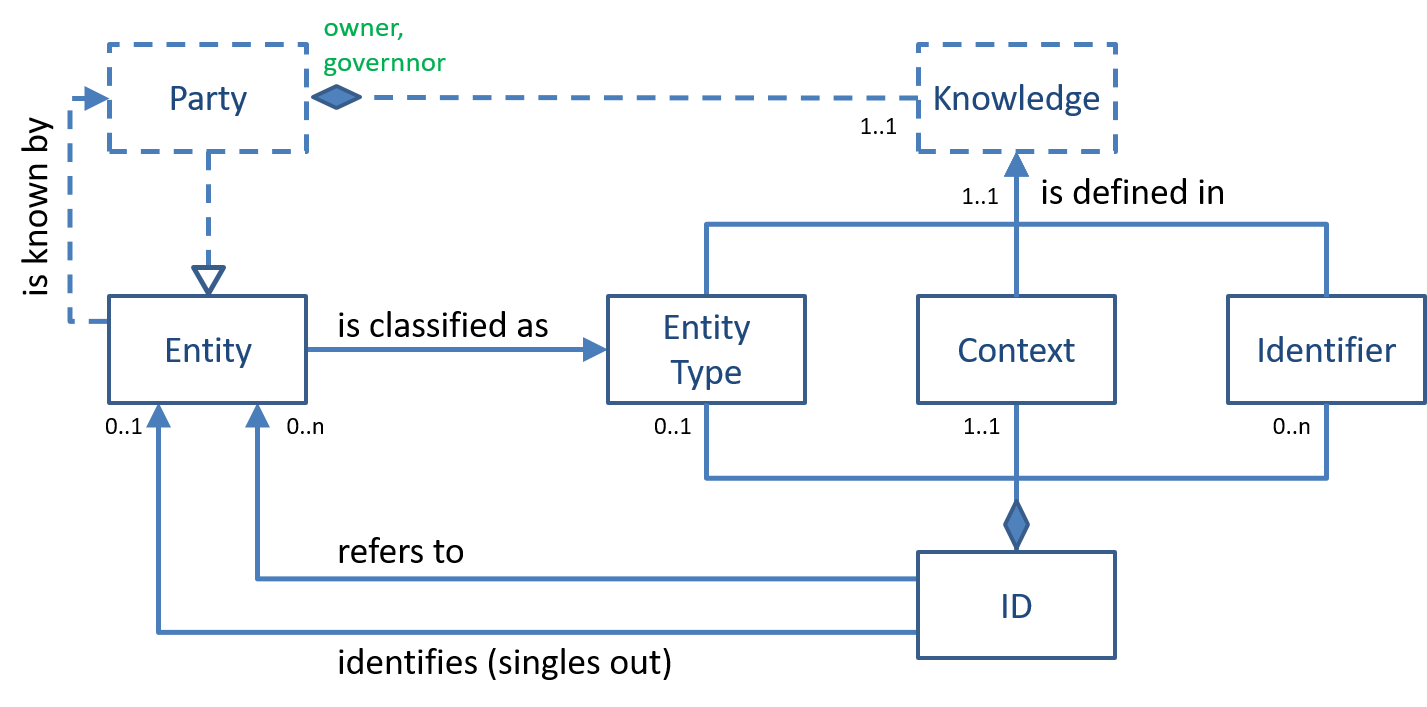
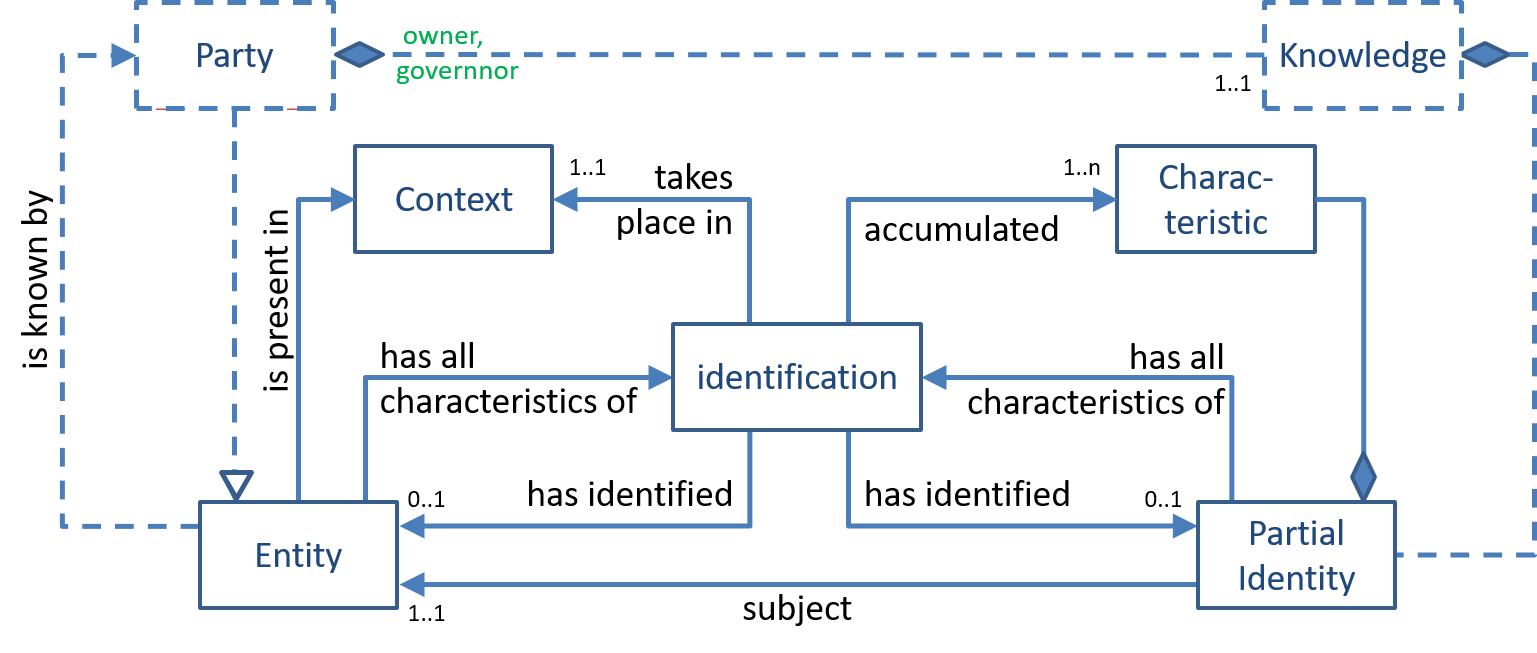
wip on identities, identification, identifiers

diff --git a/sidebars.js b/sidebars.js
@@ -43,6 +43,7 @@ module.exports = {
             items:
             [ { type: 'doc', id: 'terms/pattern-terminology' },
               { type: 'doc', id: 'terms/pattern-identification' },
+              { type: 'doc', id: 'terms/pattern-identifier' },
               { type: 'doc', id: 'terms/pattern-decision-making' },
               { type: 'doc', id: 'terms/pattern-decentralized-GRC' },
               { type: 'doc', id: 'terms/pattern-mandates-delegation-hiring' },

diff --git a/docs/terms/pattern-identification.md b/docs/terms/pattern-identification.md
@@ -12,11 +12,13 @@ date: 20210803
 import useBaseUrl from '@docusaurus/useBaseUrl'
 
 :::info Editor's note
-This is work that is being envisaged.
+This is work in progress and needs discussion.
 :::
 
 ### Purpose
 The **Identification pattern** captures the concepts and relations that help to explain the mechanisms that a %%party|party%% uses to %%identify|identify%% %%entities|entity%%, and mechanisms for communicating with another party such that both parties can identify an entity and know whether or not they identify the same entity.
+
+Related topics can be found in the %%identity pattern|pattern-identity%% and the %%identifier pattern|pattern-identifier%%.
 
 ### Introduction
 In 'the wild', terms such as [identify](https://www.merriam-webster.com/dictionary/identify), [identification](https://www.merriam-webster.com/dictionary/identification), [identity](https://www.merriam-webster.com/dictionary/identity) are defined such that the can be used without all too many problems in everyday discussions. However, if we want to use these terms for our [purposes](../essifLab-objectives), their definition must be much more precise, particularly because we want to use them in IT-contexts. Lets show this by example.
@@ -31,11 +33,11 @@ We will elaborate on both.
 
 #### 1. Identification: selecting a %%partial identity|partial-identity%%
 
-Suppose you are at home and someone rings at the frontdoor. When you open the door you visually examine the person in front of you, the person may say things (and you may ask things), the purpose of all this being that you 'establish the identity of' ([Merriam-Webster, identify, 1a](https://www.merriam-webster.com/dictionary/identify)), where 'identity' would be 'the distinguishing character or personality of an individual' ([Merriam-Webster, identity, 1a](https://www.merriam-webster.com/dictionary/identity)).
+Suppose you are at home and the doorbell rings. When you open the door you see a person of which you will gather further characteristics (properties), e.g. by observing their looks, by characterizing that person's voice (pitch, intonation), and interpreting what the person says, etc. You may even elicit further observations, e.g. by asking things. All of this serves the purpose of 'establishing the identity of' ([Merriam-Webster, identify, 1a](https://www.merriam-webster.com/dictionary/identify)) that person, where 'identity' would be 'the distinguishing character(istics) or personality of an individual' ([Merriam-Webster, identity, 1a](https://www.merriam-webster.com/dictionary/identity)).
 
-In practice, however, this is more about recognizing the person, i.e. tapping into your own %%knowledge|knowledge%% to see what you already know about this person, which - in terms of our %%identity pattern|identity%% would be: determining which of the %%partial identities|partial-identity%% you %%own|owner%% have the person at the door as its %%subject|subject%%. The purpose of all this is that as you remember what you know about the person, that helps you to decide whether or not, and if so, how to further engage with him/her.
+You could also phrase this as recognizing the person, i.e. tapping into your own %%knowledge|knowledge%% to see what you already know about this person, which - in terms of our %%identity pattern|identity%% would be: determining which of the %%partial identities|partial-identity%% you %%own|owner%% have the person at the door as its %%subject|subject%%. The purpose of all this is that as you remember what you know about the person, that helps you to decide whether or not, and if so, how to further engage with him/her. This would mean that you gather characteristics of that person (the fact that it actually is a person being the first of such characteristics), and continue to do so until there is only one %%partial identity|partial-identity%% that has all these characteristics.
 
-Continuing the example, it could be that you have no recollection of that person, in which case you would already have started to create a new %%partial identity|partial-identity%% for which that person is the %%subject|subject%%, and you would have started to attribute characteristics (with some level of certainty) to this person, which all are part of this new %%partial identity|partial-identity%%. Doing this enables you to identify/recognize this person the next time (s)he comes to your house.
+Continuing the example, it could be that you have no recollection of that person, i.e. there is no %%partial identity|partial-identity%% in your %%knowledge|knowledge%% that has all these characteristics. In this case you would already have started to create a new %%partial identity|partial-identity%% for which that person is the %%subject|subject%%, and you would have started to attribute characteristics (with some level of certainty) to this person, which all are part of this new %%partial identity|partial-identity%%. Doing this enables you to identify/recognize this person the next time (s)he comes to your house.
 
 The identification process is said to fail if a user record or %%partial identity|partial-identity%% has been selected, but its actual %%subject|subject%% is not the %%entity|entity%% that supposedly is identified. This is the case when someone/something (succesfully) masquerades as, or impersonates that %%entity|entity%%. The process of obtaining assurances that the %%entity|entity%% that is identified is "who (s)he says that (s)he is" is commonly called 'authentication'. We would say that authentication is the process of providing a set of assurances such that the risk of having selected a %%partial identity|partial-identity%% or user record whose %%subject|subject%% is not the %%entity|entity%% that was identified, is acceptable to the %%owner|owner%% of that %%partial identity|partial-identity%% or user record.
 
@@ -55,35 +57,40 @@ In many contexts, this assumption does not hold. Examples include IT-contexts, o
 
 In any such cases, an %%agent|agent%% that performs identification, must have access to the relevant subset of its %%principal's|principal%% %%knowledge|knowledge%%, that is: to a representation thereof that it is able to interpret as intended by its %%principal|principal%%.
 
-Such representations can come in many forms. In a human administrative context, such representations can be stored in e.g. customer and/or supplier relation management systems, employee registrations, etc., which may be paper-based (in a file cabinet), or electronic (in a database). Typically for IT-contexts, this would also include user registrations, that hold accounts for the users. The subset of %%attributes|attribute%% that one can find a such a registration should have been chosen such that the various records therein are fit for purpose, which means that any %action% that an %agent% of the %owner% of that %data% must execute, can find the %data% it needs for that task in one of its registrations.
+Such representations can come in many forms. In a human administrative context, such representations can be stored in e.g. customer and/or supplier relation management systems, employee registrations, etc., which may be paper-based (in a file cabinet), or electronic (in a database). Typically for IT-contexts, this would also include user registrations, that hold accounts for the users. The subset of %%attributes|attribute%% that one can find a such a registration should have been chosen such that the various records therein are fit for purpose, which means that any %%action|action%% that an %%agent|agent%% of the %%owner|owner%% of that %%data|data%% must execute, can find the %%data|data%% it needs for that task in one of its registrations.
 
-This is particularly true for the %action% that is commonly referred to as 'logging in'. The %actor% that is 'logging in' some user onto a system (or provide the user access to some other physical or electronic location), will identity (and subsequently authenticate) the user, i.e. search for the account to associate the user with, from where it can find all other data that is needed about the user in that particular context.
+This is particularly true for the %%action|action%% that is commonly referred to as 'logging in'. The %%actor|actor%% that is 'logging in' some user onto a system (or provide the user access to some other physical or electronic location), will identity (and subsequently authenticate) the user, i.e. search for the account to associate the user with, from where it can find all other data that is needed about the user in that particular context.
 
-### Formalized model
+### Formalized model - information realm
 Here is a visual representation of this pattern, using the following [notations and conventions](../notations-and-conventions#pattern-diagram-notations):
 
 <img
-  alt="Conceptual model of the 'Identification' pattern"
+  alt="Conceptual model of the 'Identification' pattern - information realm"
   src={useBaseUrl('images/patterns/pattern-identification.png')}
 />
 
-The figure shows that a %party% can know (about the existence of) any number of %entities%, one of which is that %party% itself. As explained in the %party-actor-action pattern%, the this %party% has (and %owns% and %governs%) its %knowledge, and as explained in the %identity pattern%, %partial identities% are a part of that %knowledge%.
+The figure shows that a %%party|party%% can know (about the existence of) any number of %%entities|entity%%, one of which is that %%party|party%% itself. As explained in the %%party-actor-action pattern|pattern-party-actor-action%%, this %%party|party%% has (%%owns|owner%%, %%governs|governance%%) its own %%knowledge|knowledge%%. Also, as explained in the %%identity pattern|pattern-identity%%, %%partial identities|partial-identity%% are a part of that %%knowledge|knowledge%%.
 
-When a %party% knows (about the existence of) an %entity%, it is likely to have classified this %entity% as one or several types. For example, people may classify other people as their friends, enterprises may classify people as employees, customers or suppliers. Note that a person known to an enterprise may well be both an employee and a customer, illustrating that %entities% may be a member of multiple classes.
+As mentioned above, %%identification|identify%% is an %%act|action%%, by (an %%agent|agent%% of) a %%party|party%% that results in the establishment of a 1-1 relation between an %%entity|entity%% (that exists in the real world) and a %%partial identity|partial-identity%% (that exists in the %%knowledge|knowledge%% of that %%party|party%%). This %%act|action%% takes place in a specific context/situation, in which a set of %%entities|entity%% is present.
 
-In the %knowledge% of a %party%, %entities% are typically represented by one or more %identifiers%. In various systems of an enterprise, this can be an employee-number, or a customer-number. Also, %parties% may know 
+Then, this act accummulates a set of characteristics (the 'uses' relation in the figure) that it either
+- observes from the %%entity|entity%% to be identified, then finds all %%partial identities|partial-identity%% that have all of these characteristics, or
+- takes from the %%partial identity|partial-identity%% whose %%subject|subject%% needs to be identified, then finds all %%entities|entity%% that have all of these characteristics
 
+There are quite a few commonly used characteristics. One example are entity-types, i.e. classifications of %%entities|entity%% that %%parties|party%% use to make sense of the world. Examples of which include 'person', 'organization', 'animal', 'friend', etc. The %%partial identity|partial-identity%% that a %%party|party%% %%owns|owner%% about some %%entity|entity%% would include the entity-types that this %%party|party%% has attributed to that %%entity|entity%%. Another example are %%identifiers|identifier%%, i.e. texts or words that are used to refer to an %%entity|entity%% in specific contexts.
 
-### References
+This process of accumulation of characteristics (and selecting the %%entities|entity%% or %%partial identities|partial-identity%% that keep fitting all of these characteristics) continues until
+- there is no %%entity|entity%% or no %%partial identity|partial-identity%% that matches all accumlated characteristics, in which identification failed.
+- there is a single %%partial identity|partial-identity%% and a single %%entity|entity%% that both match all such characteristics, in which case identification is successful and the %%subject|subject%%-relation between the %%entity|entity%% and %%partial identity|partial-identity%% has been established.
 
-Earlier ideas for this can be found in "[Putting Identifiers in the Context of eHealth](https://link.springer.com/content/pdf/10.1007/978-0-387-79026-8_27.pdf)"
+### Formalized model - data realm
+Here is a visual representation of a similar pattern, using the following [notations and conventions](../notations-and-conventions#pattern-diagram-notations):
 
+<img
+  alt="Conceptual model of the 'Identification' pattern - data realm"
+  src={useBaseUrl('images/patterns/pattern-identification.png')}
+/>
 
-### Discussion - Scope of Identification
-[RFC 3986, Section 1.1.](https://tools.ietf.org/html/rfc3986#section-1.1) states _"an identifier embodies the information required to distinguish what is being identified from all other things within <u>its</u> **scope of identification"**_. This statement suggests that identifiers (URIs) have a single scope, supposedly specified by "_the URI schemes and naming authority (if any)_". However, there is no such requirement, and there is nothing in place to guarantee this (apart from IANA, many other (sometimes even very commonly used) URI schemes exist). [Pfitzmann and Hansen (2010)](https://dud.inf.tu-dresden.de/literatur/Anon_Terminology_v0.34.pdf) (section 13.2) use the term 'identifiability sets' rather than 'scope of identification', and describe how 'attackers' - but that could equally well have been regular users - each have, or construct their own scope, and use contextual information to do so.
-
-The criterion that makes a text string qualify as an identifier doesn't seem to cut it, as only _using_ a text for identification purposes doesn't make it have (what we will call) the 'identification property', i.e. the property that it _actually_ identifies something. It may only have that property in combination with an associated (single) scope of identification, which may depend on the context in which it is being used. [RFC 2986, page 6](https://tools.ietf.org/html/rfc3986#page-6) illustrates this using the identifier "http://lcoalhost/".
-
-The lack of (identifying) scopes of identification becomes an issue when a %%party|party%% (say Alice) sends the identifier (e.g. `my car`) to another %%party|party%% (say Bob), expecting that Bob will then be able to identify the same %%entity|entity%% that she identifies with it (presumably some specific car).
-
-If Bob had just met Alice for the first time, and hadn't seen her coming in a car, then Alice must acquaint Bob with the existence of the %%entity|entity%% that she refers to with `my car`, e.g. by pointing her finger to it, or describing the make, brand and license plate or some other characteristic that allows Bob to single out her car (in the context of their meeting one another). Then, Bob can 'register' the existence of that car in his %%knowledge|knowledge%% (optionally tagging it with an identifier of his own, e.g. `Alice's car`), and associate it with the attribute (party='Alice', identifier='`my car`'). It is important to have the "party='Alice'" part in there, because other parties, (e.g. Carol) may also use an identifier `my car`, which would and should then refer to another car. This shows that the scope of interpretation for an identifier has to do with the (%%knowledge|knowledge%% of) %%parties|party%% that use it, and that understanding the intended meaning requires a proper identification of that scope.
+:::info Editor's note
+This section needs a figure and an explanation of how identification works in the data realm, i.e. the realm where identification is performed by an %%actor|actor%% that is not the %%party|party%% on whose behalf the %%identification|identify%% is being made. This requires that the %%actor|actor%% can access %%data|data%%-records (%%owned|owned%% by its %%principal|principal%%) that represent (exerpts of) %%partial identities|partial-identity%% of the %%entities|entity%% to be %%identified|identify%%. Such %%data|data%%-records would contain %%attributes|attribute%% that represent the characteristics.
+:::

diff --git a/docs/terms/pattern-identifier.md b/docs/terms/pattern-identifier.md
@@ -1,0 +1,49 @@
+---
+id: pattern-identifier
+title: "Identifier Pattern"
+scopeid: essifLab
+type: pattern
+typeid: identifier
+stage: draft
+hoverText: "The eSSIF-Lab Identifier Pattern describes how Identifiers are defined and used for Identification purposes."
+date: 20210830
+---
+
+import useBaseUrl from '@docusaurus/useBaseUrl'
+
+:::info Editor's note
+This is work in progress and needs discussion.
+:::
+
+### Purpose
+The **Identifier pattern** captures the concepts and relations that help to explain how %%identifiers|identifier%% are defined and used for %%identification|identify%% purposes.
+
+Related topics can be found in the %%identity pattern|pattern-identity%% and the %%identification pattern|pattern-identification%%.
+
+### Introduction
+
+
+### Formalized model
+Here is a visual representation of this pattern, using the following [notations and conventions](../notations-and-conventions#pattern-diagram-notations):
+
+<img
+  alt="Conceptual model of the 'Identifier' pattern"
+  src={useBaseUrl('images/patterns/pattern-identifier.png')}
+/>
+
+The figure shows a context, in which an %%agent|agent%% of a %%party|party%% that perceives the context (and its contents) uses %%identifiers|identifier%% for the purpose of %%identifying|identify%% %%entities|entity%% within that context. Typical contexts are those in which a computer system/application acts as such an %%agent|agent%%, but any other situation where (an %%agent|agent%% of) a %%party|party%% is %%acting|action%% has its own particular context. The context is significant, because within that context, not every %%entity|entity%% that a %%party|party%% knows to exist will be (expected to be) present, or needed to be %%identified|identify%%.
+
+It is assumed that %%identifiers|identifier%% are associated with specific classes of %%entities|entity%%. Such associations may differ between contexts. For example, in the context of discussing war planes, the %%identifier|identifier%% `B52` refers to a class of bomber planes, whereas in the context of Schiphol Amsterdam airport, `B52` would refer to a (boarding) gate, and in the context of drinks, it would refer to a specific [cocktail](https://en.wikipedia.org/wiki/B-52_(cocktail)). Examples in the IT include %%identifiers|identifier%% in the syntax of e-mail addresses, which may be used as an email address, as a username for logging in, as a SIP address (for making calls over the Internet), etc.
+
+Typically, %%identifications|identify%% for which %%identifiers|identifier%% are used are limited to specific contexts where the %%actor|actor%% that executes the %%identification-act|identify%% knows the kind of %%entity|entity%% that needs to be %%identified|identify%%, and when using some %%identifier|identifier%%, it would expect it to be useable for instances of such a kind.
+
+The figure introduces the concept `ID`, the idea of which is that it is a composition of whatever it takes in terms of %%identifiers|identifier%% to be able to identify an %%entity|entity%% of a specific type in a specific context. In the simplest case (in a small context, without many %%entities|entity%% to choose from), a single %%identifier|identifier%% may suffice - specifying the entity type may not even be necessary. In other cases, a single identifier m ay not suffice, and multiple identifiers are necessary
+
+:::info Editor's note
+Text to be added from here on. Thoughts revolve around changing 'entity type' to 'attribute type' or such. That might result in a mapping (Entity, Attribute Type, Identifier) in the current figure to (subject, predicate, object) or pehaps better: (subject, key, value), i.e. (key, value) pairs for an implied subject. That could form the basis of doing identification in the data realm (which is currently still lacking)
+:::
+
+
+### References
+
+Earlier ideas for this can be found in "[Putting Identifiers in the Context of eHealth](https://link.springer.com/content/pdf/10.1007/978-0-387-79026-8_27.pdf)"

diff --git a/docs/terms/identifier.md b/docs/terms/identifier.md
@@ -29,3 +29,12 @@ The following strings are examples: 'localhost', 'https://localhost/', 'Trust ov
 -----
 ### Notes
 [^1]: This is the definition of [RFC 3986, Section 1.1.](https://tools.ietf.org/html/rfc3986#section-1.1) but without the requirement of complying with URI syntax constraints. Note that there is consensus in the literature about this. For example, [(Allen, 2016)](http://www.lifewithalacrity.com/2016/04/the-path-to-self-soverereign-identity.html) defines 'Identifier' as “A name or other label that uniquely identifies an identity.”. [Pfitzmann and Hansen, 2010](https://dud.inf.tu-dresden.de/literatur/Anon_Terminology_v0.34.pdf) say (in footnote 57): “A name or another bit string”. The [DID-core specification](https://www.w3.org/TR/did-core/) of W3C [defines 'decentralized identifiers' as specializations of URIs](https://www.w3.org/TR/did-core/#dfn-decentralized-identifiers).
+
+### Discussion - Scope of Identification
+[RFC 3986, Section 1.1.](https://tools.ietf.org/html/rfc3986#section-1.1) states _"an identifier embodies the information required to distinguish what is being identified from all other things within <u>its</u> **scope of identification"**_. This statement suggests that identifiers (URIs) have a single scope, supposedly specified by "_the URI schemes and naming authority (if any)_". However, there is no such requirement, and there is nothing in place to guarantee this (apart from IANA, many other (sometimes even very commonly used) URI schemes exist). [Pfitzmann and Hansen (2010)](https://dud.inf.tu-dresden.de/literatur/Anon_Terminology_v0.34.pdf) (section 13.2) use the term 'identifiability sets' rather than 'scope of identification', and describe how 'attackers' - but that could equally well have been regular users - each have, or construct their own scope, and use contextual information to do so.
+
+The criterion that makes a text string qualify as an identifier doesn't seem to cut it, as only _using_ a text for identification purposes doesn't make it have (what we will call) the 'identification property', i.e. the property that it _actually_ identifies something. It may only have that property in combination with an associated (single) scope of identification, which may depend on the context in which it is being used. [RFC 2986, page 6](https://tools.ietf.org/html/rfc3986#page-6) illustrates this using the identifier "http://lcoalhost/".
+
+The lack of (identifying) scopes of identification becomes an issue when a %%party|party%% (say Alice) sends the identifier (e.g. `my car`) to another %%party|party%% (say Bob), expecting that Bob will then be able to identify the same %%entity|entity%% that she identifies with it (presumably some specific car).
+
+If Bob had just met Alice for the first time, and hadn't seen her coming in a car, then Alice must acquaint Bob with the existence of the %%entity|entity%% that she refers to with `my car`, e.g. by pointing her finger to it, or describing the make, brand and license plate or some other characteristic that allows Bob to single out her car (in the context of their meeting one another). Then, Bob can 'register' the existence of that car in his %%knowledge|knowledge%% (optionally tagging it with an identifier of his own, e.g. `Alice's car`), and associate it with the attribute (party='Alice', identifier='`my car`'). It is important to have the "party='Alice'" part in there, because other parties, (e.g. Carol) may also use an identifier `my car`, which would and should then refer to another car. This shows that the scope of interpretation for an identifier has to do with the (%%knowledge|knowledge%% of) %%parties|party%% that use it, and that understanding the intended meaning requires a proper identification of that scope.

diff --git a/docs/essifLab-pattern-list.md b/docs/essifLab-pattern-list.md
@@ -38,8 +38,11 @@ These are placeholders for models that we think we could document, but haven't c
 ### [Terminology](./terms/pattern-terminology)
 The envisaged [eSSIF-Lab Terminology Pattern](./terms/pattern-terminology) will describe the relations between %%terminology|terminology%% artifacts such as '%%concept|concept%%', '%%term|term%%', '%%pattern|pattern%%', '%%mental model|pattern%%', '%%glossary|glossary%%' etc.
 
-### [Identifiers](./terms/pattern-identification)
-The envisaged [eSSIF-Lab Identity Pattern](./terms/pattern-identification) will describe the conceptual nature of %%identifiers|identifier%%. Note that %%identifiers|identifier%% are very different from %%identities|identity%%.
+### [Identification](./terms/pattern-identification)
+The envisaged [eSSIF-Lab Identity Pattern](./terms/pattern-identification) will describe the concepts and relations that help to explain the mechanisms that a %%party|party%% uses to %%identify|identify%% %%entities|entity%%, and mechanisms for communicating with another party such that both parties can identify an entity and know whether or not they identify the same entity.
+
+### [Identifiers](./terms/pattern-identifier)
+The envisaged [eSSIF-Lab Identity Pattern](./terms/pattern-identifier) will describe the conceptual nature of %%identifiers|identifier%%. Note that %%identifiers|identifier%% are very different from %%identities|identity%%.
 
 ### [Decentralized Governance, Risk Management and Compliance (GRC)](./terms/pattern-decentralized-GRC)
 The envisaged [Decentralized GRC pattern](./terms/pattern-decentralized-GRC) will describe how %%parties|party%% can set objectives, and pursue them to be succesful. The latter means that the party must be capable of assessing and managing the risks associated with not realizing them. In a decentralized world, this means that it needs to depend on other parties, that may or may not be too reliable. Also, it means that the party must be able to set and realize objectives to satisfy requirements of other parties (compliance).

diff --git a/docs/essifLab-principles.md b/docs/essifLab-principles.md
@@ -43,7 +43,7 @@ From this, it follows that:
 
 ## Identifiers are properties - not things
 
-[RFC 3986](https://datatracker.ietf.org/doc/html/rfc3986#section-1.1) (p5) says "An identifier embodies the information required to distinguish what is being identified from all other things within its scope of identification". One can easily see that this implies that an identifier is not something that that embodies information, but a property of something that embodies information. This 'something' will or won't have the identification property depending on the context. Still, we use the term %%identifier|identifier%% to refer to a character string that is being used for identification purposes. For details, see the %%identifier-pattern|pattern-identification%%.
+[RFC 3986](https://datatracker.ietf.org/doc/html/rfc3986#section-1.1) (p5) says "An identifier embodies the information required to distinguish what is being identified from all other things within its scope of identification". One can easily see that this implies that an identifier is not something that that embodies information, but a property of something that embodies information. This 'something' will or won't have the identification property depending on the context. Still, we use the term %%identifier|identifier%% to refer to a character string that is being used for identification purposes. For details, see the %%identification pattern|pattern-identification%% and the %%identifier pattern|pattern-identifier%%.
 
 ## You do not know what others mean
 

diff --git a/docs/terms/partial-identity.md b/docs/terms/partial-identity.md
@@ -19,4 +19,4 @@ A %%party|party%% does not control the partial identities of which it is the %%s
 
 Parties that issue %%credentials|credential%% about an %%entity|entity%% thus author and issue %%claims|assertion%% that are part of the %%partial identity|partial-identity%% that this party has about the entity. If that party is coherent and consistent in its knowledge, and does not lie, then we may assume that the set of claims in the credential of an issuer is also coherent and consistent, and that this party believes that the knowledge represented by such claims is true (which still may or may not be the case).
 
-For further details, see the %%identity pattern|pattern-identity%%.
+For further details, see the %%identity pattern|pattern-identity%%. Related topics can be found in the %%identification pattern|pattern-identification%% and the %%identifier pattern|pattern-identifier%%.

diff --git a/docs/terms/attribute.md b/docs/terms/attribute.md
@@ -13,4 +13,4 @@ date: 20210821
 ### Short Description
 An **Attribute** is %%data|data%%, that represents a characteristic that a %%party|party%% (the %%owner|owner%% of the %%attribute|attribute%%) has attributed to an %%entity|entity%%. An attribute is a form of %%assertion|assertion%% (or claim), that states the attribution of that characteristic to its %%subject|subject%%.
 
-Related topics can be found in the %%identity pattern|pattern-identity%%.
+Related topics can be found in the %%identity pattern|pattern-identity%%, the %%identification pattern|pattern-identification%% and the %%identifier pattern|pattern-identifier%%.

diff --git a/docs/terms/identity.md b/docs/terms/identity.md
@@ -19,4 +19,4 @@ We realize that this is a term that is heavily debated. However for our purposes
 
 The [Self-Identity](https://en.wikipedia.org/wiki/Self-concept) or [Self-concept](https://en.wikipedia.org/wiki/Self-concept) of a %%party|party%% is the %%partial identity|partial-identity%% of which it is both the %%subject|subject%% and the %%owner|owner%%.
 
-For further details, see the %%identity pattern|pattern-identity%%
+For further details, see the %%identity pattern|pattern-identity%%. Related topics can be found in the %%identification pattern|pattern-identification%% and the %identifier pattern%.
